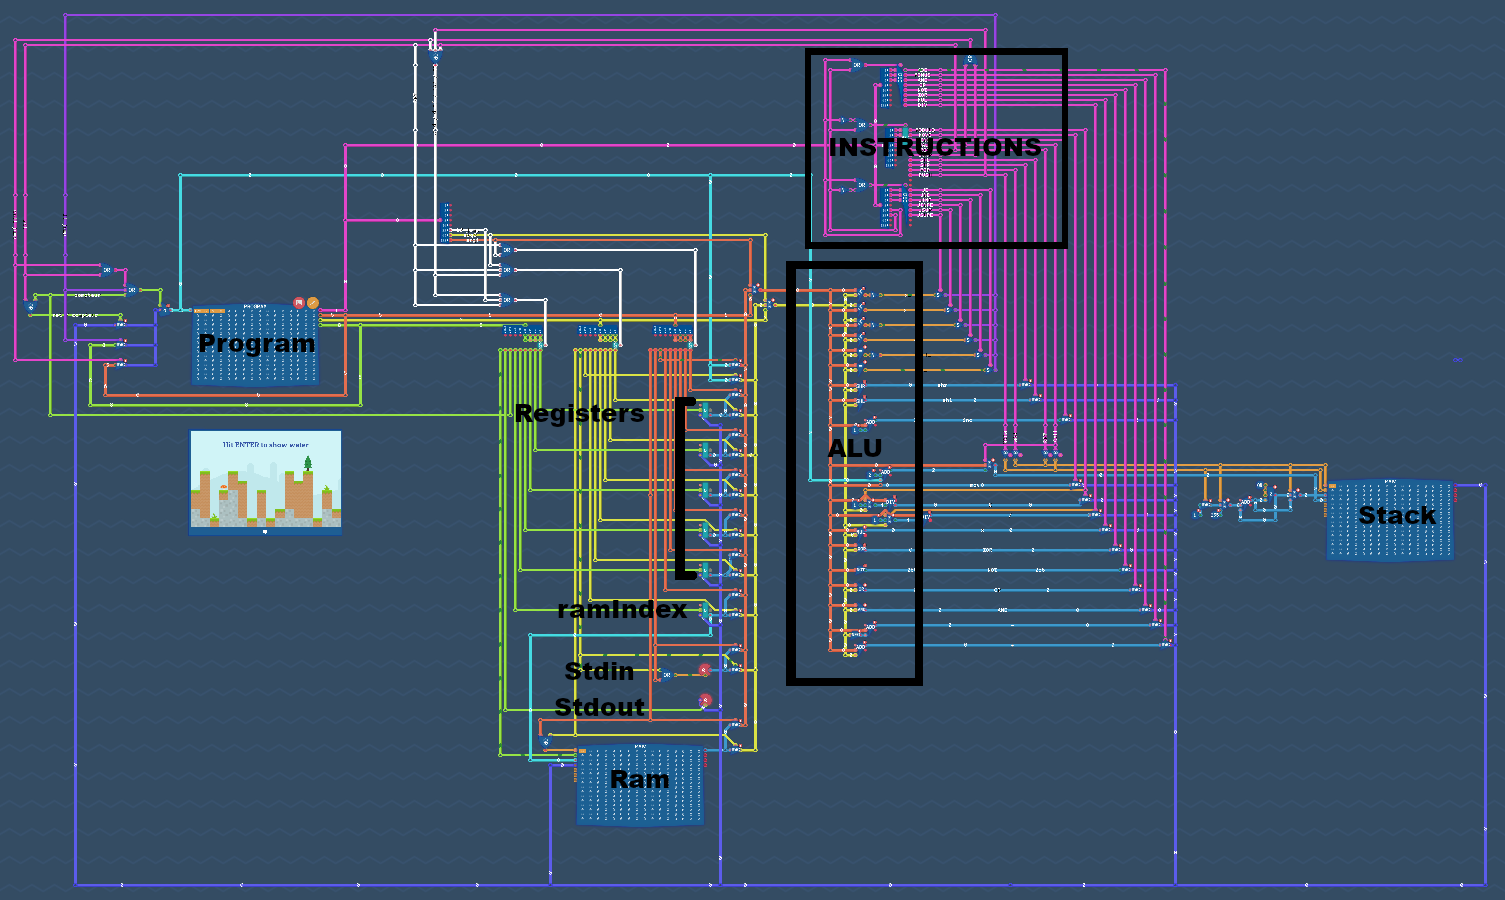
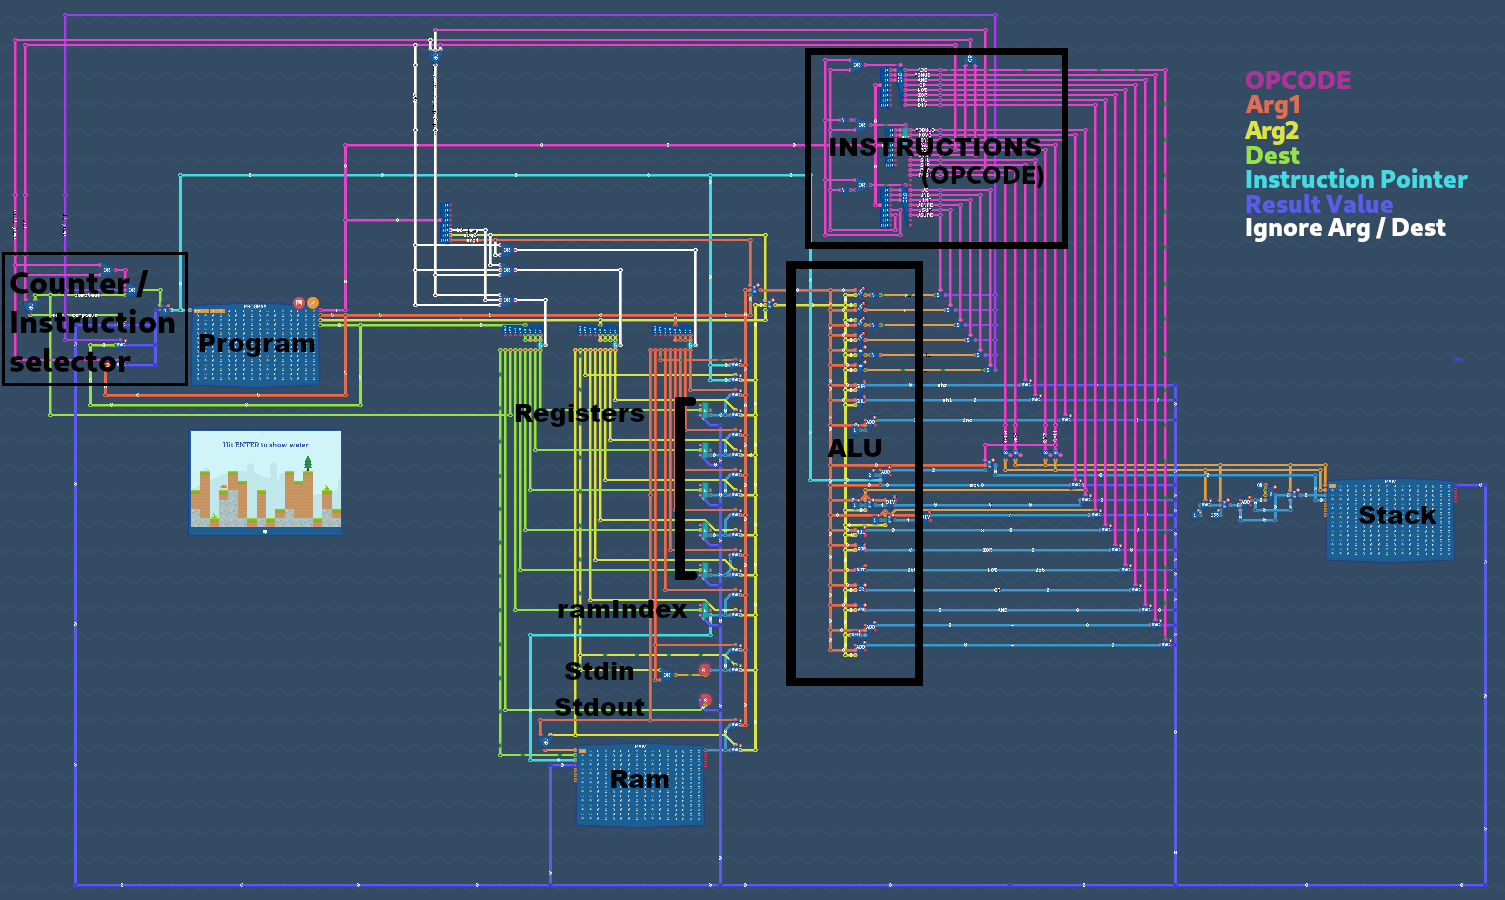
add legend on circuit

Changed region(s): [[0.812, 0.0622, 0.9681, 0.28], [0.0, 0.28, 0.1249, 0.4356], [0.5934, 0.1867, 0.687, 0.2178]]

diff --git a/README.md b/README.md
@@ -7,19 +7,11 @@ My own computer architecture and assembly language.
 ## About this project
 
 [Turing complete](https://turingcomplete.game) is an educational game focused on computer science. You begin with NAND gates and progressively build other gates like OR, AND, NOT, XOR, etc. Eventually, you create components and, ultimately, a Turing complete architecture with its own assembly language.
-I am curently ranked [251/85k](https://turingcomplete.game/leaderboard) on the leaderboard of Turing complete.
+I am curently ranked [251/85k](https://turingcomplete.game/leaderboard) on the leaderboard of Turing complete. [My turing complete profile](https://turingcomplete.game/profile/101858).
 
 ## My architecture
 <img src="img/circuit_annotated.PNG">
 
-color | purpose
----|---
-pink | opcode
-orange | arg1
-yellow | arg2
-green | dest
-violet | result value
-cyan | instruction pointer
 
 ## My assembly
 
